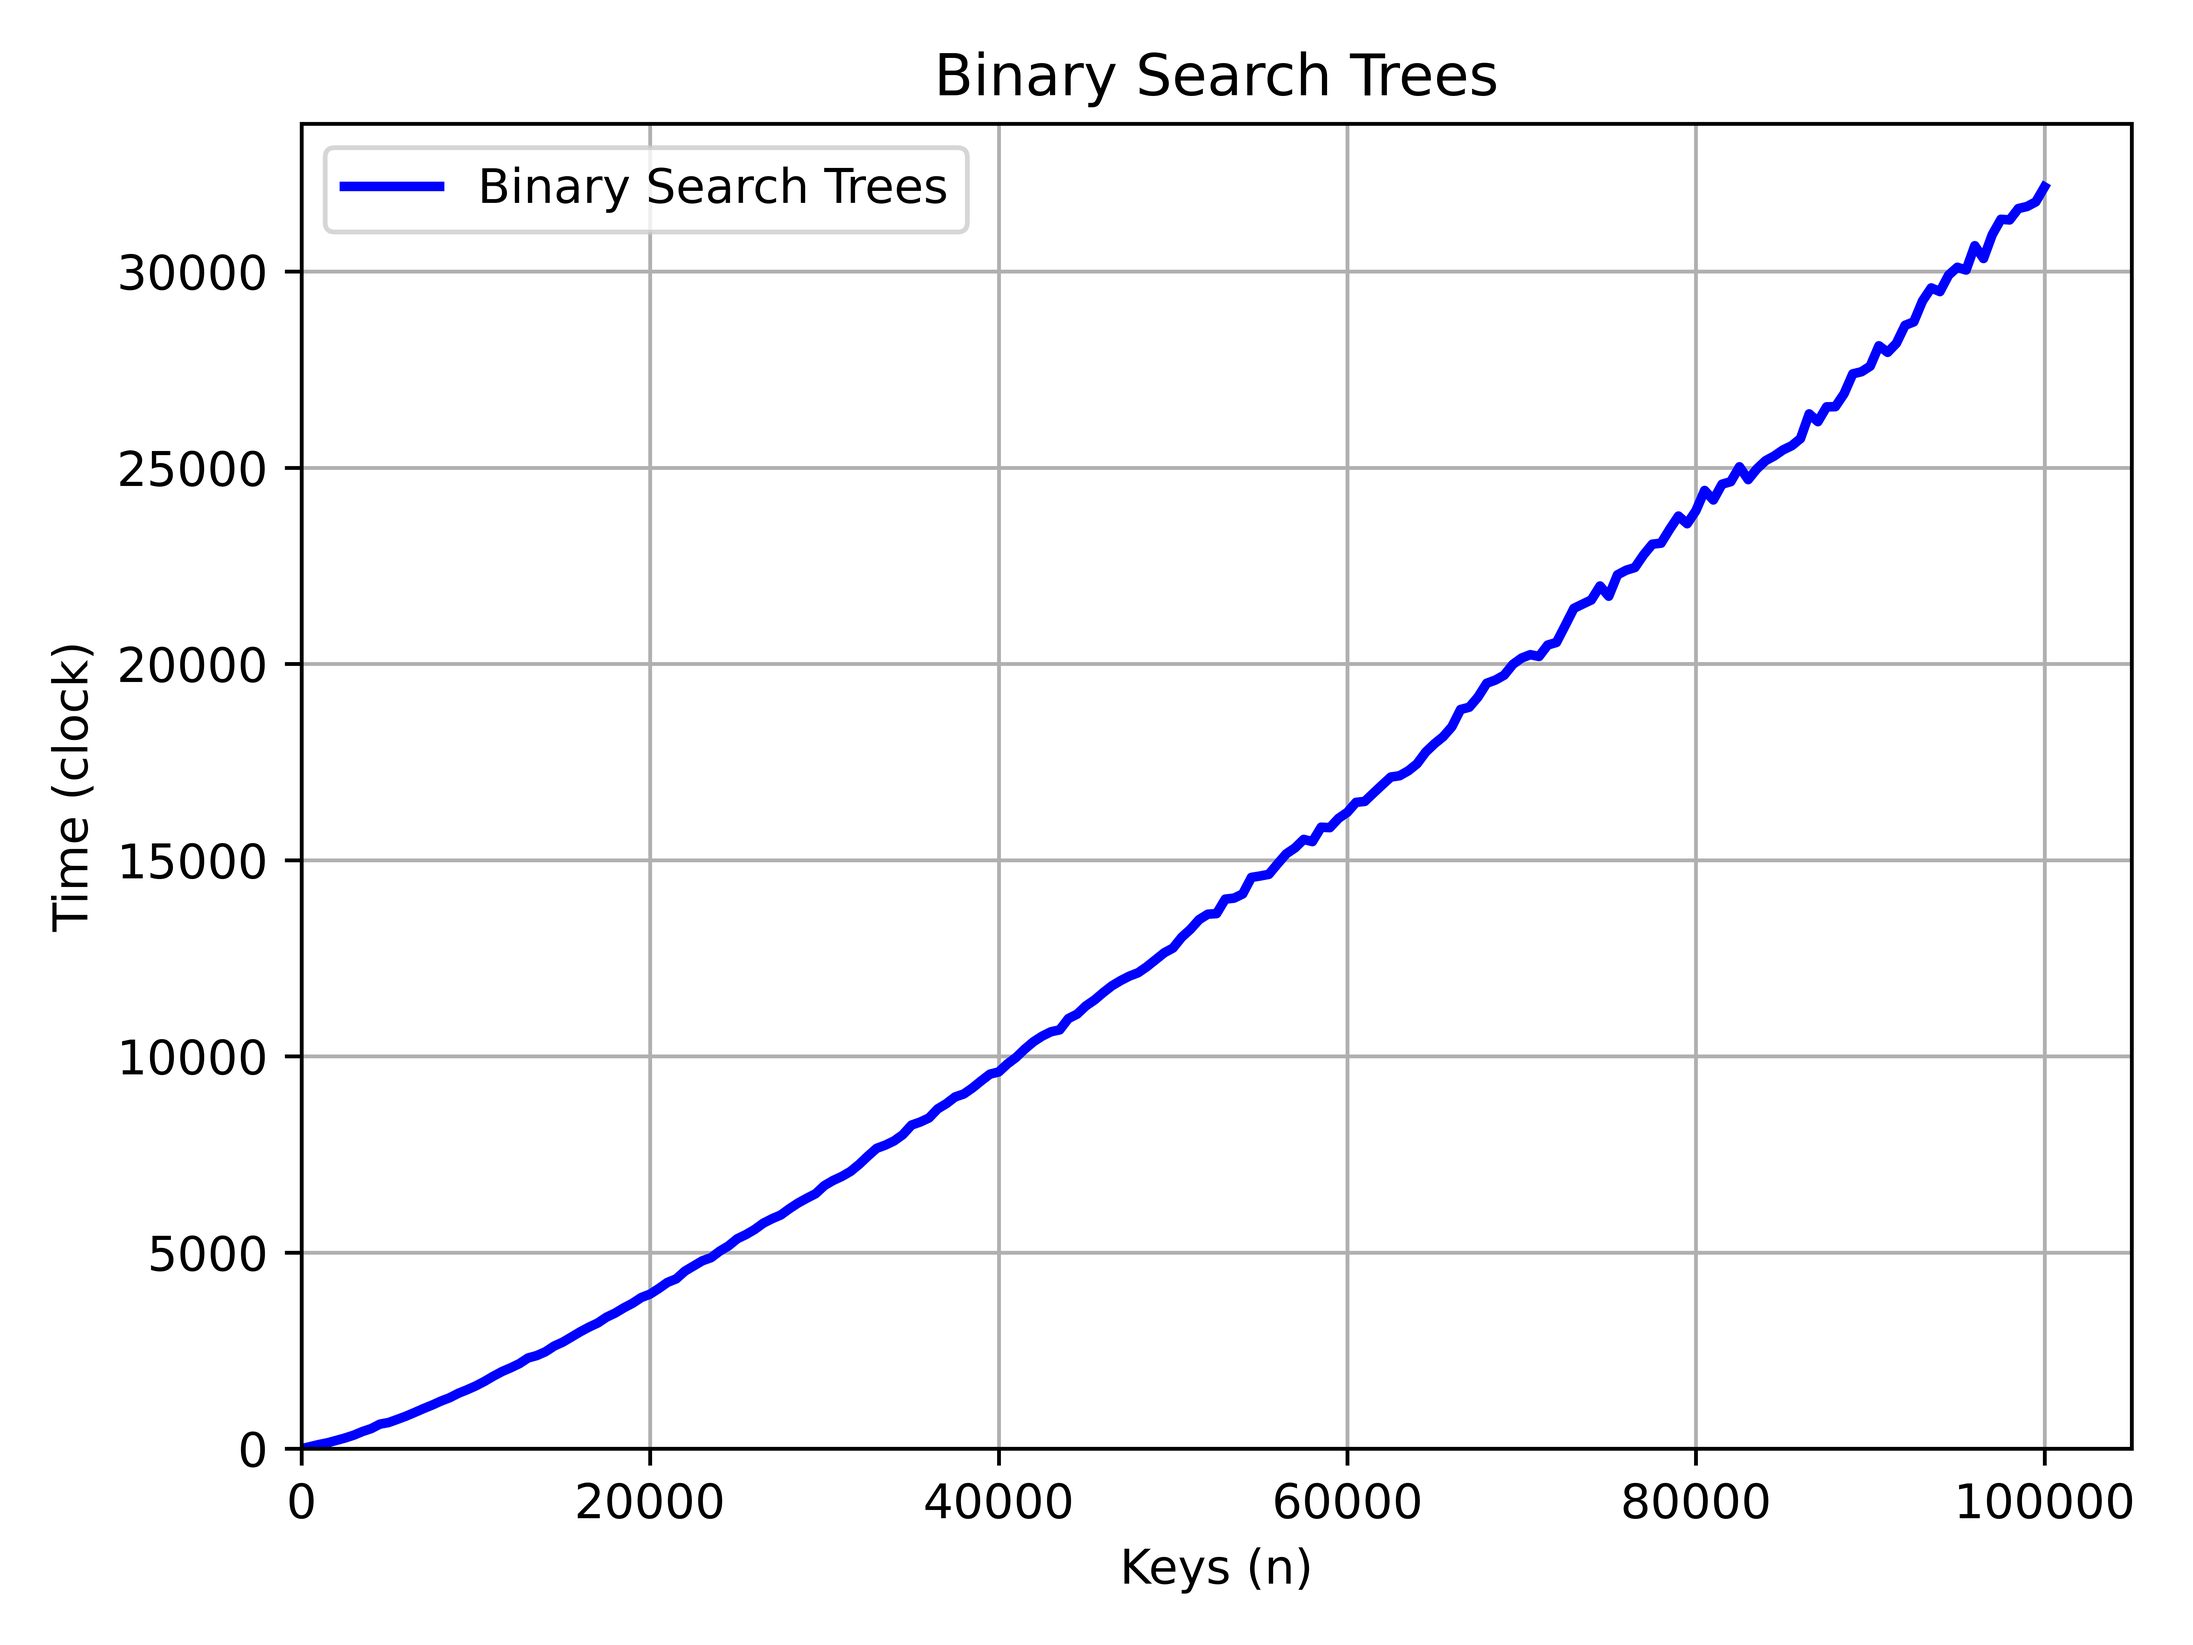
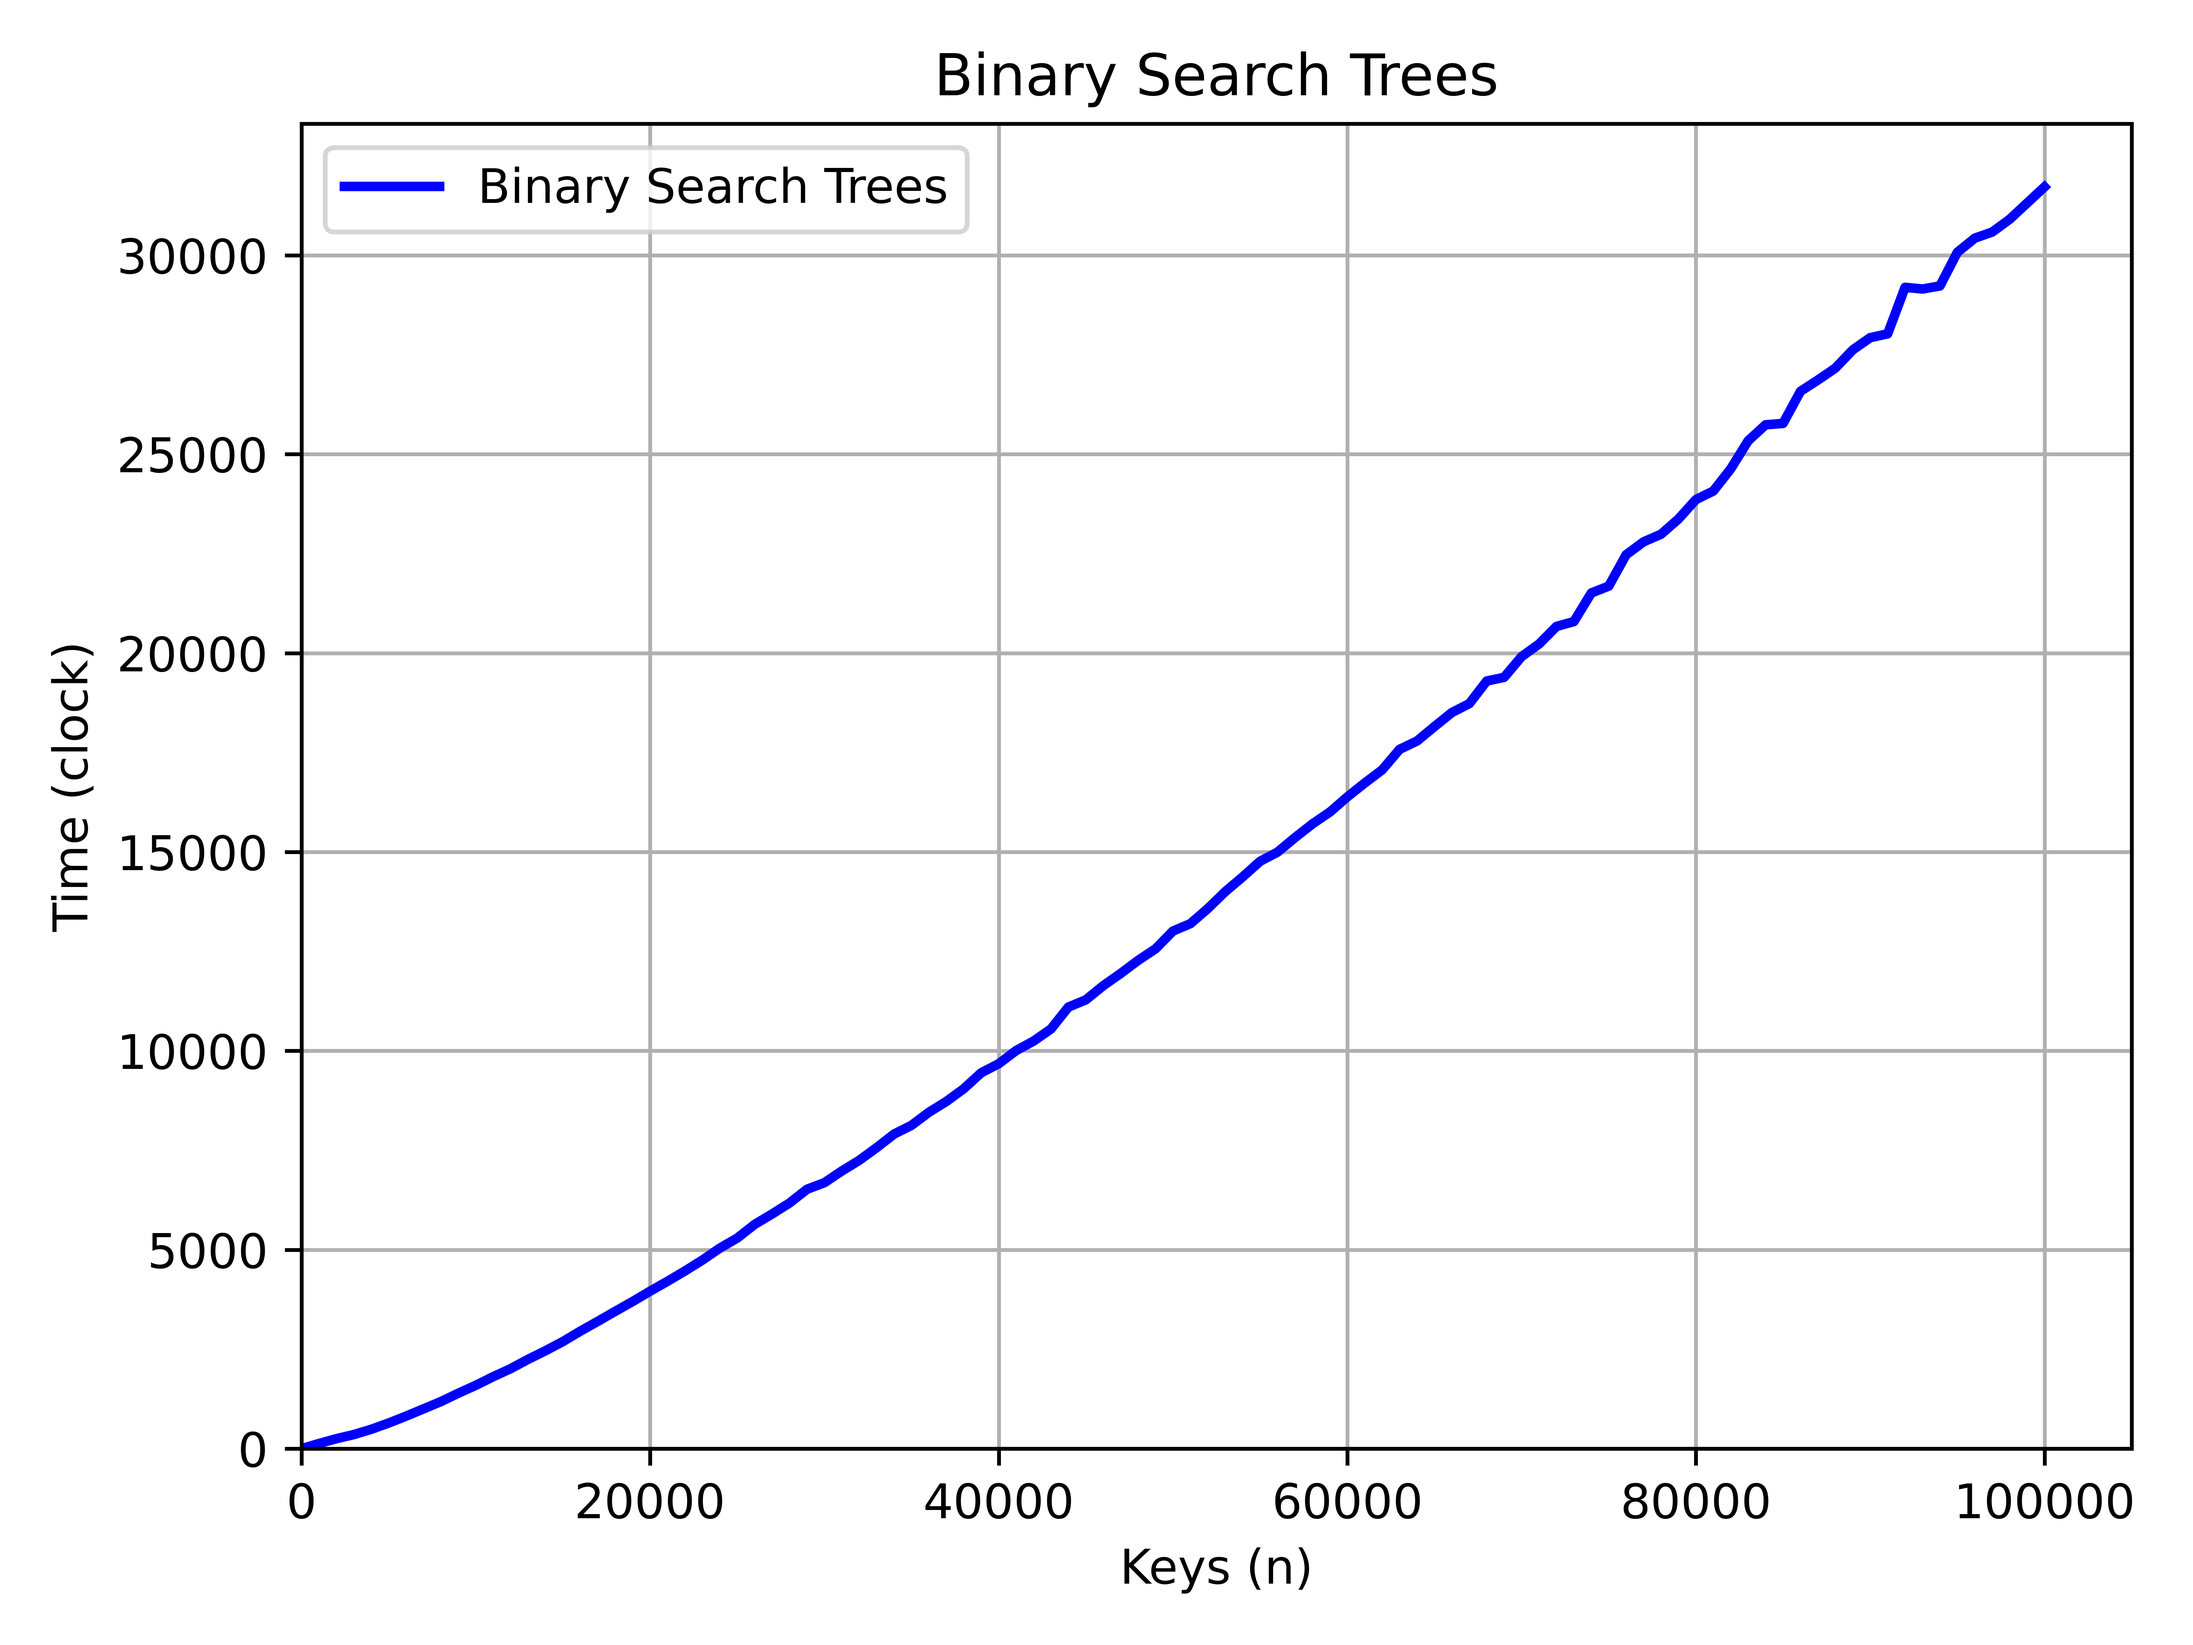
repeating the experiments

diff --git a/src/main.c b/src/main.c
@@ -17,16 +17,16 @@ int main(int argc, char *argv[]) {
         exit(EXIT_FAILURE);
     }
 
-    /* Lab. 1 configurations */
+    /* Lab. 1A configurations */
     Configuration lab1A_conf;
     lab1A_conf.min_keys = 0; // minimum number of keys in the tree
     lab1A_conf.max_keys = 100000; // maximum number of keys in the tree
     lab1A_conf.max_instances = 100; // how many times to repeat the same test
-    lab1A_conf.step = 500; // the amount of keys will grow this much at each test
+    lab1A_conf.step = 1000; // the amount of keys will grow this much at each test
     lab1A_conf.search_delete_ratio = 60; // ratio of insertions/deletions
     lab1A_conf.seed = 10; // srand()'s starting seed
 
-    /* Lab. 1A configurations */
+    /* Lab. 1B configurations */
     Configuration lab1B_conf;
     lab1B_conf.min_keys = 0; // minimum number of keys in the tree
     lab1B_conf.max_keys = 10000; // maximum number of keys in the tree
